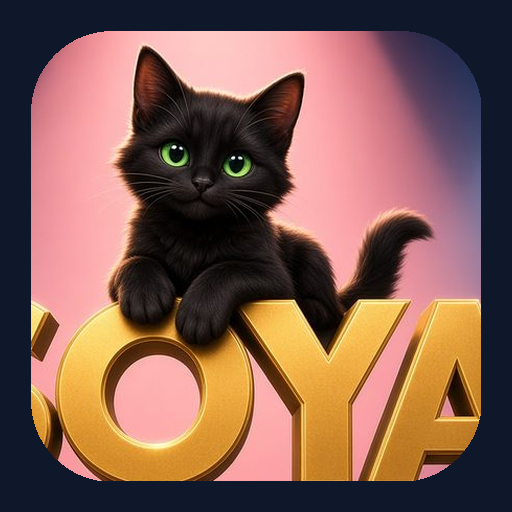
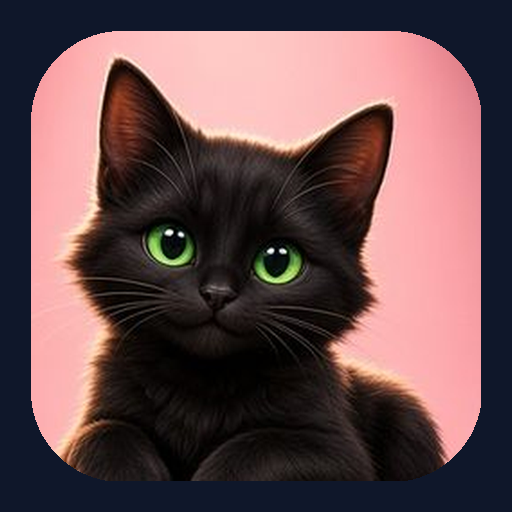
Rename to Soyactory and fix Hebrew text boxes
An empty text box was left-to-right on a Hebrew page. It now follows
the page when empty and the first letter once there is one. Artwork is
Soya the cat without the old lettering.

Claude-Session: https://claude.ai/code/session_01BKUdjE75PAXmj9ATtLCMnn

diff --git a/app.js b/app.js
@@ -1,4 +1,4 @@
-/* Roundtable — Soya Productions.
+/* Roundtable — a Soyactory app.
    UI, language strings, the sample panel, the optional live panel, and localStorage.
    No framework, no build step. Everything stays in this browser. */
 (function () {
@@ -30,9 +30,9 @@
       title: 'Roundtable',
       otherLang: 'עברית',
       settings: 'Settings',
-      presents: 'Soya Productions presents',
+      presents: 'From Soyactory',
       skip: 'Skip',
-      credit: 'A Soya Productions film',
+      credit: 'Made by Soyactory',
       install: 'Add to Home Screen',
       homeTitle: 'Get a plain-language review of your idea',
       homeLead: 'Describe an app or a feature. A small panel of everyday people will tell you what is unclear, what they would ask for, and who it is for.',
@@ -106,9 +106,9 @@
       title: 'שולחן עגול',
       otherLang: 'English',
       settings: 'הגדרות',
-      presents: 'Soya Productions מציגים',
+      presents: 'מבית Soyactory',
       skip: 'דלג',
-      credit: 'הפקה של Soya Productions',
+      credit: 'מבית Soyactory',
       install: 'הוספה למסך הבית',
       homeTitle: 'קבלו חוות דעת בשפה פשוטה על הרעיון שלכם',
       homeLead: 'תארו אפליקציה או תכונה. קבוצה קטנה של אנשים מן השורה תספר מה לא ברור, מה היו מבקשים, ולמי זה מתאים.',
@@ -559,9 +559,18 @@
     if (h) { h.setAttribute('tabindex', '-1'); h.focus({ preventScroll: true }); }
   }
 
+  function pageDir() { return document.documentElement.dir === 'rtl' ? 'rtl' : 'ltr'; }
+  /** The direction a text box should have: the page's while it is empty, then the language of its first letter.
+   *  Digits and punctuation do not decide. (A bare dir="auto" makes an empty box left-to-right on a Hebrew page.) */
+  function boxDir(value) {
+    var m = /[\u0590-\u08FF\uFB1D-\uFDFF\uFE70-\uFEFF]|[A-Za-z\u00C0-\u024F]/.exec(String(value || ''));
+    if (!m) return pageDir();
+    return /[A-Za-z\u00C0-\u024F]/.test(m[0]) ? 'ltr' : 'rtl';
+  }
+
   function field(id, key, limit, multiline, helpKey) {
     var value = state.draft[id] || '';
-    var attrs = 'id="f-' + id + '" data-field="' + id + '" maxlength="' + limit + '" dir="auto" aria-describedby="h-' + id + '"';
+    var attrs = 'id="f-' + id + '" data-field="' + id + '" maxlength="' + limit + '" dir="' + boxDir(value) + '" aria-describedby="h-' + id + '"';
     var control = multiline
       ? '<textarea ' + attrs + ' rows="' + (limit > 400 ? 5 : 3) + '">' + esc(value) + '</textarea>'
       : '<input type="text" ' + attrs + ' value="' + esc(value) + '" autocomplete="off">';
@@ -681,7 +690,7 @@
     var html = document.documentElement;
     html.lang = state.lang;
     html.dir = state.lang === 'he' ? 'rtl' : 'ltr';
-    document.title = t('title') + ' — Soya Productions';
+    document.title = t('title') + ' — Soyactory';
     setText('brand-title', t('title'));
     setText('lang-toggle', t('otherLang'));
     setText('open-settings', t('settings'));
@@ -708,6 +717,7 @@
     var id = e.target.getAttribute && e.target.getAttribute('data-field');
     if (!id) return;
     state.draft[id] = e.target.value;
+    e.target.dir = boxDir(e.target.value);
     var counter = app.querySelector('[data-count="' + id + '"]');
     if (counter) counter.textContent = e.target.value.length + ' / ' + LIMITS[id];
   });

diff --git a/styles.css b/styles.css
@@ -1,4 +1,4 @@
-/* Roundtable — Soya Productions. Phone-first, one column, one primary action per screen. */
+/* Roundtable — a Soyactory app. Phone-first, one column, one primary action per screen. */
 :root{
   --bg:#0F172A;--paper:#F5F6F8;--card:#fff;--ink:#101828;--mute:#5B6472;
   --accent:#0E6B5C;--accent-soft:#E3F1EE;
@@ -40,7 +40,7 @@ label{display:block;font-weight:600;margin:0 0 4px}
 .top{display:flex;align-items:center;gap:8px;background:var(--bg);color:#F1F3F6;padding:8px 16px;padding-top:max(8px,env(safe-area-inset-top))}
 .brand{display:flex;align-items:center;gap:10px;margin-inline-end:auto;background:transparent;border-color:transparent;color:inherit;padding:0 4px;text-align:start;min-width:0}
 .brand:hover:not(:disabled){background:transparent}
-.brand img{width:40px;height:40px;border-radius:8px;object-fit:cover;object-position:50% 30%;flex:none}
+.brand img{width:40px;height:40px;border-radius:8px;flex:none}
 .brand b{display:block;font-size:16px;font-weight:650;line-height:1.2}
 .brand small{display:block;font-size:12px;font-weight:400;color:#9AA4B2;white-space:nowrap}
 .top .ghost{background:transparent;color:#C9D0DA;border-color:#334155;padding:8px 12px;font-weight:500}
@@ -102,12 +102,12 @@ td.num{text-align:end;white-space:nowrap;font-weight:600}
 
 /* Footer */
 .foot{text-align:center;color:var(--mute);font-size:14px;padding:16px 16px max(24px,env(safe-area-inset-bottom))}
-.foot img{width:72px;height:40px;object-fit:cover;border-radius:6px;display:block;margin:0 auto 6px}
+.foot img{width:48px;height:48px;border-radius:10px;display:block;margin:0 auto 6px}
 .foot button{margin-top:6px}
 .tip{max-width:340px;margin:10px auto 0;color:var(--ink)}
 .noscript{text-align:center;padding:24px}
 
-/* Movie-style intro. One short fade, no looping motion. */
+/* Short intro. One fade, no looping motion. */
 .splash{position:fixed;inset:0;z-index:10;display:flex;flex-direction:column;align-items:center;justify-content:center;gap:10px;padding:24px;text-align:center;color:#fff;background:radial-gradient(circle at 50% 38%,#f4b8c8 0,#6b7bb8 45%,#0F172A 100%)}
 .splash img{width:min(86vw,460px);height:auto;border-radius:12px;box-shadow:0 12px 40px rgba(15,23,42,.45)}
 .splash p{margin:12px 0 0;font-size:16px;letter-spacing:.04em;color:#E8ECF8}

diff --git a/index.html b/index.html
@@ -3,7 +3,7 @@
 <head>
 <meta charset="utf-8">
 <meta name="viewport" content="width=device-width, initial-scale=1, viewport-fit=cover">
-<title>Roundtable — Soya Productions</title>
+<title>Roundtable — Soyactory</title>
 <meta name="description" content="Describe an app idea in plain language and get a review from a synthetic panel of everyday people. No account, no ads, no tracking.">
 <meta name="theme-color" content="#0F172A">
 <link rel="manifest" href="manifest.webmanifest">
@@ -21,16 +21,16 @@
 <body>
 
 <div id="splash" class="splash" hidden>
-  <img src="assets/soya-productions.jpg" alt="Soya Productions" width="960" height="540">
-  <p id="splash-presents">Soya Productions presents</p>
+  <img src="assets/soyactory-cat.jpg" alt="Soya, a black kitten" width="760" height="476">
+  <p id="splash-presents">From Soyactory</p>
   <h1 id="splash-title">Roundtable</h1>
   <button type="button" id="splash-skip" class="ghost">Skip</button>
 </div>
 
 <header class="top">
   <button type="button" class="brand" id="brand">
-    <img src="assets/soya-productions.jpg" alt="" width="40" height="40">
-    <span><b id="brand-title">Roundtable</b><small>Soya Productions</small></span>
+    <img src="assets/soyactory-mark.jpg" alt="" width="40" height="40">
+    <span><b id="brand-title">Roundtable</b><small>Soyactory</small></span>
   </button>
   <button type="button" class="ghost" id="lang-toggle">עברית</button>
   <button type="button" class="ghost" id="open-settings">Settings</button>
@@ -39,8 +39,8 @@
 <main id="app" aria-live="polite"></main>
 
 <footer class="foot">
-  <img src="assets/soya-productions.jpg" alt="Soya Productions" width="72" height="40">
-  <p id="credit">A Soya Productions film</p>
+  <img src="assets/soyactory-mark.jpg" alt="Soya the cat" width="48" height="48">
+  <p id="credit">Made by Soyactory</p>
   <button type="button" class="ghost" id="install" hidden>Add to Home Screen</button>
   <p id="install-tip" class="tip" hidden></p>
 </footer>

diff --git a/sw.js b/sw.js
@@ -1,6 +1,6 @@
 /* Roundtable service worker.
    Bump VERSION (roundtable-YYYYMMDDHHMMSS) whenever a cached file changes. */
-const VERSION = 'roundtable-20261120120000';
+const VERSION = 'roundtable-20261120150000';
 
 const PRECACHE = [
   './',
@@ -14,7 +14,8 @@ const PRECACHE = [
   'icons/roundtable-512.png',
   'icons/roundtable-maskable-512.png',
   'icons/roundtable-apple-180.png',
-  'assets/soya-productions.jpg',
+  'assets/soyactory-cat.jpg',
+  'assets/soyactory-mark.jpg',
 ];
 
 self.addEventListener('install', (event) => {

diff --git a/docs/DESIGN.md b/docs/DESIGN.md
@@ -15,7 +15,7 @@ A day-to-day adult who is not technical and has an app or feature idea. Every de
 5. **Phone first.** One column, at most 640px wide. Tap targets are at least 48px. Nothing needs dragging or hovering. Persona cards go to two columns from 700px.
 6. **Private by default.** No account, no ads, no tracking. The interface says where things are kept: in this browser.
 7. **Two languages, equal.** English and Hebrew. Hebrew is right-to-left throughout; addresses, model names and counts stay left-to-right.
-8. **A film, lightly.** Soya Productions presents the app like a movie studio: a skippable intro and a footer credit. The branding frames the app and never gets in the way of the task.
+8. **Branded lightly.** Soyactory, the Soya Software Factory, made the app: a short skippable intro and a footer credit. The branding frames the app and never gets in the way of the task.
 
 ## The flow
 
@@ -25,11 +25,11 @@ Results always read in this order: synthetic banner, sample-or-live label, the i
 
 ## Branding
 
-- Logo: `assets/soya-productions.jpg` — a black kitten on gold "SOYA PRODUCTIONS" letters, pink spotlight, navy sides.
-- Intro copy: "Soya Productions presents" / "Soya Productions מציגים". Title: "Roundtable" / "שולחן עגול".
-- Footer credit: "A Soya Productions film" / "הפקה של Soya Productions".
-- Intro background: radial gradient `#f4b8c8` → `#6b7bb8` → `#0F172A`, matching the poster.
-- App icons: a cat crop of the poster on navy `#0F172A`.
+- Artwork: `assets/soyactory-cat.jpg` and `assets/soyactory-mark.jpg` — Soya, a black kitten with green eyes, against a pink spotlight.
+- Intro copy: "From Soyactory" / "מבית Soyactory". Title: "Roundtable" / "שולחן עגול".
+- Footer credit: "Made by Soyactory" / "מבית Soyactory".
+- Intro background: radial gradient `#f4b8c8` → `#6b7bb8` → `#0F172A`, matching the artwork.
+- App icons: Soya's face on navy `#0F172A`.
 
 ## Tokens
 

diff --git a/CLAUDE.md b/CLAUDE.md
@@ -14,12 +14,12 @@ Read `docs/DESIGN.md` and `docs/TECH.md` before changing how the app looks or ho
 ## Product and UI rules
 
 - Prefer editing `index.html`, `styles.css`, `app.js`, `pwa.js`, `sw.js`. Do not add a `package.json` or a toolchain unless the task cannot be done in the browser.
-- Keep all interface strings in the `I18N` object in `app.js`, in English and Hebrew. Hebrew is right-to-left.
+- Keep all interface strings in the `I18N` object in `app.js`, in English and Hebrew. Hebrew is right-to-left. Text boxes must not use a bare `dir="auto"` (it makes an empty box left-to-right on a Hebrew page); use `boxDir()`.
 - Storage keys: ideas `soya-roundtable-ideas`, language `soya-roundtable-lang`, settings `soya-roundtable-settings`.
 - Always show the yellow synthetic-panel banner on results. Label sample and live reviews clearly.
 - Do not invent demand. The sample path is a heuristic and is labelled as a sample.
-- Keep the skippable movie-style intro and the footer credit "A Soya Productions film".
-- Logo: `assets/soya-productions.jpg`. Icons are a cat crop of that poster, on navy.
+- Keep the skippable short intro and the footer credit "Made by Soyactory". Soyactory is a software factory, not a film studio: never describe the app as a film or movie.
+- Artwork: `assets/soyactory-cat.jpg` (intro) and `assets/soyactory-mark.jpg` (headers, footer). Icons are the same cat, on navy.
 - No jargon in the interface ("LLM", "persona engine", "JSON"). Settings may say "OpenAI-compatible" once.
 - Limits: name 60, problem 600, promise 300, market 800 characters. Panel size 2–8, default 5.
 - Mascots: cat, fox, owl, bear, rabbit, frog only. Default is fox.

diff --git a/README.md b/README.md
@@ -1,6 +1,6 @@
 # Roundtable
 
-*A Soya Productions film.* Soya POC #1, 20 November 2026.
+*Made by Soyactory, the Soya Software Factory.* App 1, 20 November 2026.
 
 Roundtable is a phone-first web app. You describe an app idea or a feature in plain language, and a **synthetic panel** of everyday people tells you what was unclear, what they would object to, what they would ask for, who the idea is really for, and whether your mascot fits.
 
@@ -56,7 +56,7 @@ pwa.js                 service worker registration, Add to Home Screen
 sw.js                  offline cache (bump VERSION when cached files change)
 manifest.webmanifest   web app manifest
 manifests/             the same manifest for use from that folder
-icons/  assets/        app icons and the Soya Productions logo
+icons/  assets/        app icons and the Soyactory artwork
 ```
 
 ## More detail
